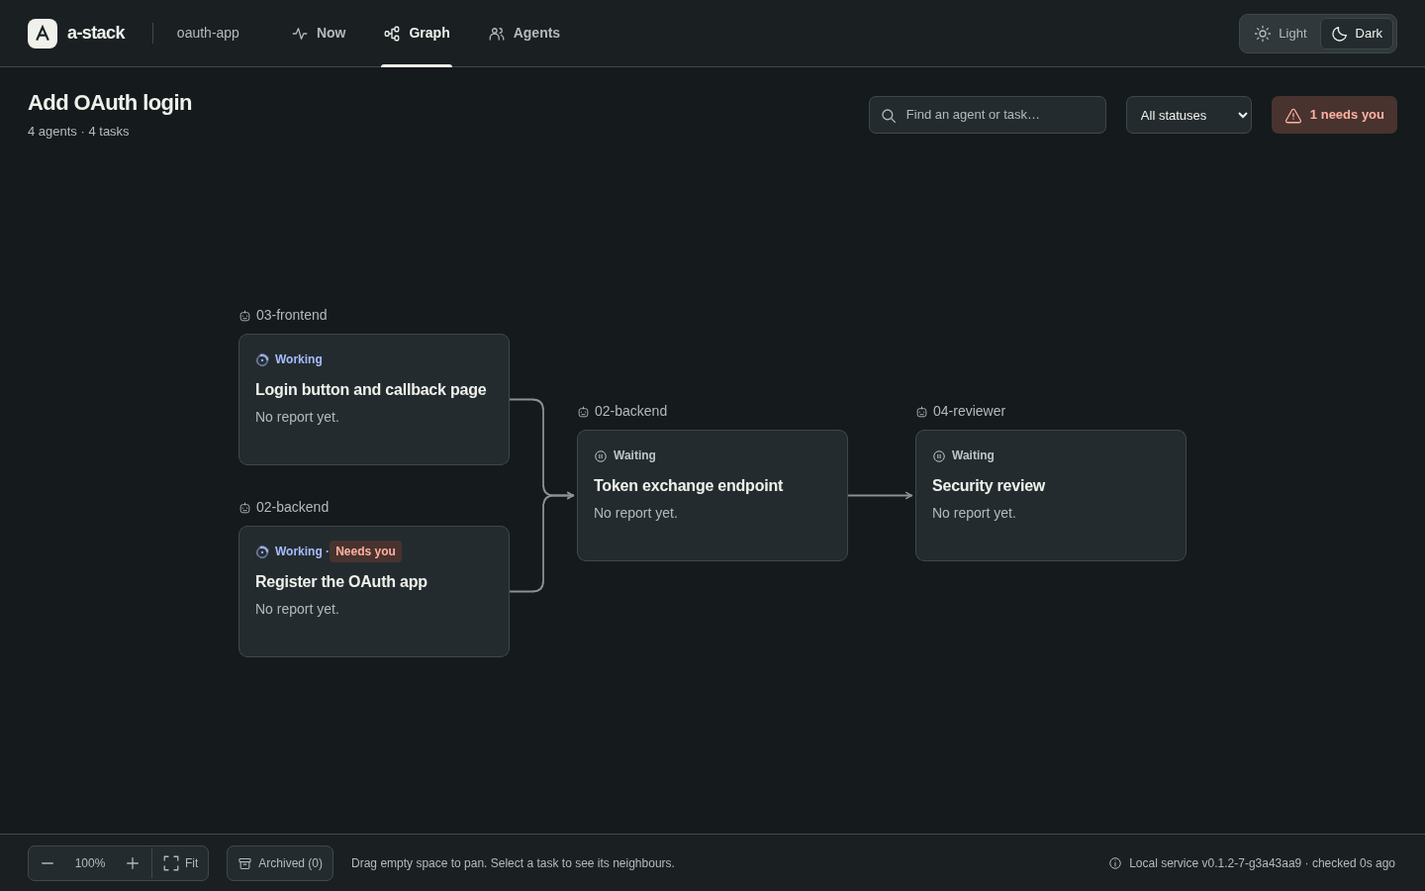
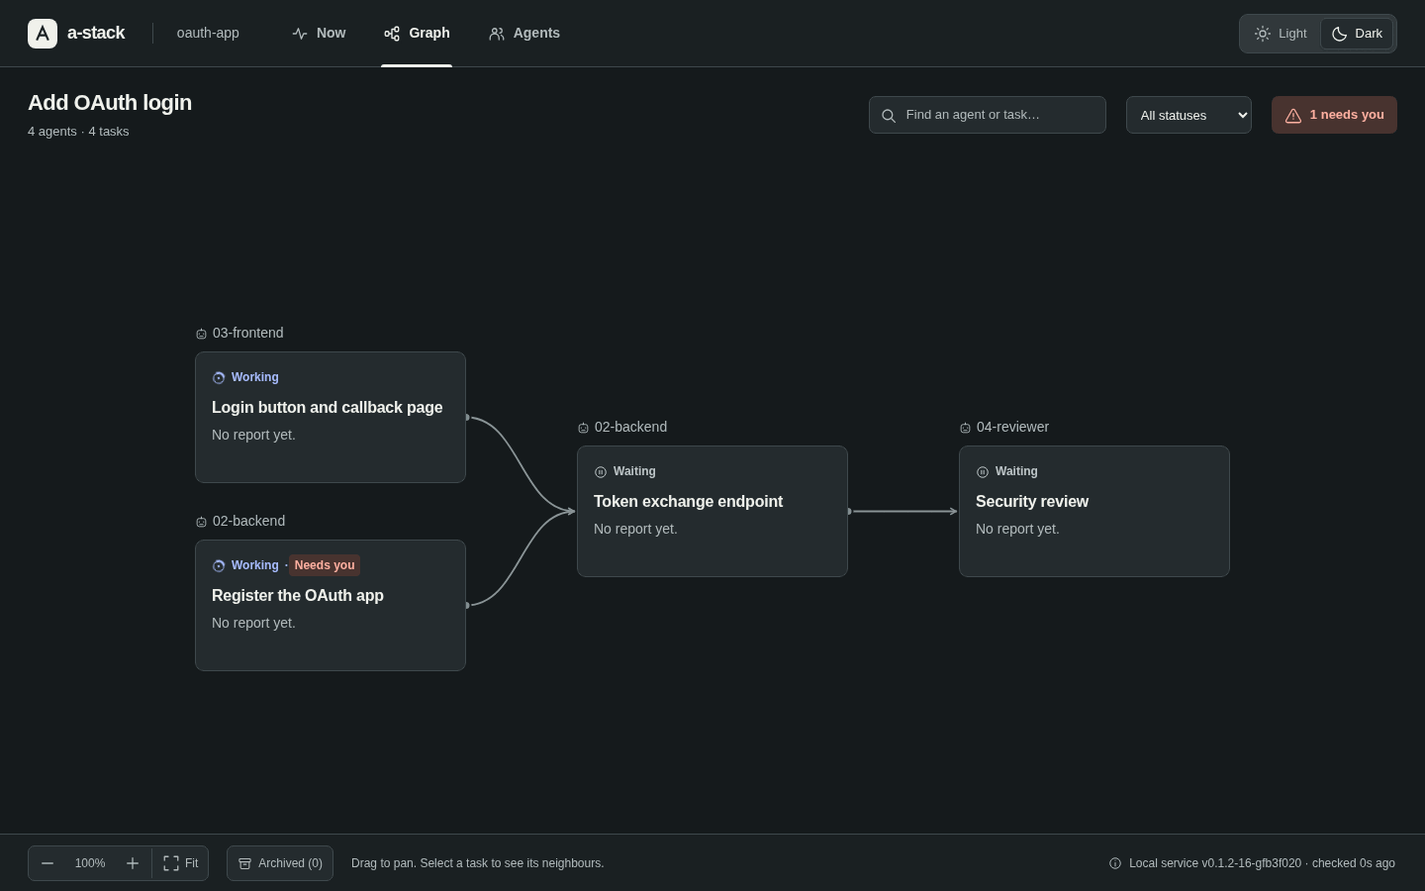
browser: curved lines and compact finished Tasks in the graph
The graph uses prototype D in plain JS. Each Task is centered on the
ports of its prerequisites and pushed down to keep the row gap, so a
chain runs level; a Task without prerequisites sits one column before
its first dependent. Lines are cubic curves from an output port, with
the small arrowhead. Finished and cancelled Tasks are compact one-line
blocks. Tasks without lines go below or to the right, whichever Fits
larger. A focused Task keeps its outline, its lines turn accent and
move on top, and the rest fades to .22 (lines) and .42 (cards).

Re-time the layout at 10, 100 and 1,000 Tasks, re-record the README
images, and amend ADR 0005 for the new line style.

diff --git a/internal/stack/browser/app.js b/internal/stack/browser/app.js
@@ -77,7 +77,7 @@ function status(n,t) {
   const key=t.progress+':'+t.needs_you;
   if (n.dataset.key===key) return;
   n.dataset.key=key;n.className='status '+t.progress;
-  n.replaceChildren(iconNode(t.progress==='cancelled'?'idle':t.progress), document.createTextNode(labels[t.progress] || t.progress));
+  n.replaceChildren(iconNode(t.progress==='cancelled'?'idle':t.progress), el('span','status-label',labels[t.progress] || t.progress));
   if (t.needs_you) { const a=el('span','status blocked','Needs you');n.append(' · ',a); }
 }
 function makeCard(t) {
@@ -96,9 +96,12 @@ function patchCard(c,t,graphCard=false) {
     }));
   }
   status(c.st,t);setText(c.title,t.title);setText(c.note,t.report_preview || 'No report yet.');
-  const caption=[t.reference_count ? `${t.reference_count} file reference${t.reference_count===1?'':'s'}`:'',t.cancelled_prerequisite_count?`${t.cancelled_prerequisite_count} cancelled prerequisite${t.cancelled_prerequisite_count===1?'':'s'}`:''].filter(Boolean).join(' · ');
+  const hidden=graphCard?hiddenPrerequisites.get(t.id) || 0:0;
+  const caption=[t.reference_count ? `${t.reference_count} file reference${t.reference_count===1?'':'s'}`:'',t.cancelled_prerequisite_count?`${t.cancelled_prerequisite_count} cancelled prerequisite${t.cancelled_prerequisite_count===1?'':'s'}`:'',hidden?`${hidden} archived prerequisite${hidden===1?'':'s'} hidden`:''].filter(Boolean).join(' · ');
+  // In the graph, done Tasks without an open question are one-line blocks; the details still show everything.
+  c.article.classList.toggle('compact',graphCard&&compactTask(t));
   setText(c.foot,caption);
-  c.button.classList.toggle('selected',state.selected===t.id);
+  c.button.classList.toggle('selected',state.selected===t.id||graphCard&&state.focus===t.id); // the focused Task keeps its outline
   c.button.setAttribute('aria-label',`${t.title}. ${labels[t.progress]}.${t.needs_you?' Needs you.':''} Assigned to ${names.join(' and ') || 'Unassigned'}. ${caption}`);
   const visible=matches(t);
   c.article.classList.toggle('archived',graphCard&&t.archived);
@@ -109,9 +112,11 @@ function patchCard(c,t,graphCard=false) {
   else c.article.hidden=!visible;
 }
 const edgesSVG = document.createElementNS(svgNS,'svg');edgesSVG.classList.add('connections');edgesSVG.setAttribute('aria-hidden','true');
-edgesSVG.innerHTML='<defs><marker id="arrow" viewBox="0 0 8 8" refX="7" refY="4" markerWidth="5" markerHeight="5" orient="auto"><path d="M1 1l5 3-5 3" fill="none" stroke="var(--edge)" stroke-width="1.5"/></marker></defs><g></g>';
+edgesSVG.innerHTML='<defs><marker id="arrow" viewBox="0 0 8 8" refX="7" refY="4" markerWidth="5" markerHeight="5" orient="auto"><path d="M1 1l5 3-5 3" fill="none" stroke="var(--edge)" stroke-width="1.5"/></marker><marker id="arrow-active" viewBox="0 0 8 8" refX="7" refY="4" markerWidth="4.5" markerHeight="4.5" orient="auto"><path d="M1 1l5 3-5 3" fill="none" stroke="var(--accent)" stroke-width="1.6"/></marker></defs><g></g>';
 graph.append(edgesSVG);
 const done = t => t.progress==='finished'||t.progress==='cancelled';
+const compactTask = t => done(t)&&!t.needs_you;
+let hiddenPrerequisites = new Map();
 // The focused Task and its direct prerequisites and dependents, from every dependency, also the lines the graph hides.
 function focusSet() {
   const s=new Set([state.focus]);
@@ -136,8 +141,11 @@ function reduceEdges(tasks,deps) {
   for(let u=0;u<n;u++)if(!inOrder.has(u))for(const [,e] of out[u])kept.push(e);
   return {kept,hidden};
 }
-// One column per dependency rank with the cards stacked and centered, and bracket lines through the gap between
-// columns, as in v0.1.0. Tasks without a drawn line sit in rows below the connected graph, so no line runs past them.
+// Left to right, one column per longest-path rank over the drawn lines (the transitive reduction), ordered by three
+// barycenter sweeps. Each Task is centered on the ports of its prerequisites and pushed down to keep the row gap, so a
+// straight chain runs level. Tasks without a drawn line go in rows below or columns to the right, whichever Fits larger.
+const cardWidth=274, columnGap=112, padX=28, padY=24, groupGap=96;
+let ports=new Map(); // the port height of each card, measured once per layout
 function layout() {
   const wasHidden=panel.hidden; if(wasHidden){panel.hidden=false;panel.style.visibility='hidden';}
   const tasks=graphTasks, byID=new Map(tasks.map(t=>[t.id,t])), rank=new Map(tasks.map(t=>[t.id,0]));
@@ -147,68 +155,76 @@ function layout() {
   for(let i=0;i<queue.length;i++) for(const id of next.get(queue[i])) {
     rank.set(id,Math.max(rank.get(id),rank.get(queue[i])+1));degree.set(id,degree.get(id)-1);if(!degree.get(id))queue.push(id);
   }
-  const layers=new Map();
-  for(const t of tasks) if(linked.has(t.id)) {const r=rank.get(t.id);if(!layers.has(r))layers.set(r,[]);layers.get(r).push(t.id);}
+  // A Task with no prerequisites sits one column before its earliest dependent, so its lines do not cross a column.
+  const needs=new Set();for(const ns of next.values())for(const id of ns)needs.add(id);
+  for(const t of tasks){const ns=next.get(t.id);if(ns.length&&!needs.has(t.id))rank.set(t.id,Math.min(...ns.map(id=>rank.get(id)))-1);}
+  const cols=[];
+  for(const t of tasks) if(linked.has(t.id)) (cols[rank.get(t.id)] ??= []).push(t.id);
   // Barycenter sweeps place each Task near the Tasks it connects to, so fewer lines cross; ties keep the stable Task order.
   const prev=new Map(tasks.map(t=>[t.id,[]]));for(const [id,ns] of next)for(const n of ns)prev.get(n).push(id);
-  const cols=[...layers.keys()].sort((a,b)=>a-b).map(r=>layers.get(r)), order=new Map(), place=l=>l.forEach((id,i)=>order.set(id,(i+.5)/l.length));cols.forEach(place);
+  const order=new Map(), place=l=>l.forEach((id,i)=>order.set(id,(i+.5)/l.length));cols.forEach(place);
   const sweep=(l,near)=>{const c=new Map(l.map(id=>{const n=near.get(id);return [id,n.length?n.reduce((s,x)=>s+order.get(x),0)/n.length:order.get(id)];}));l.sort((a,b)=>c.get(a)-c.get(b));place(l);};
   for(let i=1;i<cols.length;i++)sweep(cols[i],prev);for(let i=cols.length-2;i>=0;i--)sweep(cols[i],next);for(let i=1;i<cols.length;i++)sweep(cols[i],prev);
-  const sizes=new Map(tasks.map(t=>[t.id,cards.get(t.id).article.offsetHeight]));
-  const totals=[...layers.values()].map(ids=>ids.reduce((h,id)=>h+sizes.get(id)+32,0)-32), top=Math.max(0,...totals);
-  let w=layers.size?Math.max(...layers.keys())*342+274:0, y=24;
+  const sizes=new Map(), compact=new Set();ports=new Map();
+  for(const t of tasks){const c=cards.get(t.id);sizes.set(t.id,c.article.offsetHeight);ports.set(t.id,c.button.offsetTop+c.button.offsetHeight/2);if(c.article.classList.contains('compact'))compact.add(t.id);}
+  const gap=(a,b)=>compact.has(a)&&compact.has(b)?16:28, step=cardWidth+columnGap, pos=new Map();
+  let h=0;
+  cols.forEach((col,k)=>{
+    let last=null;
+    for(const id of col){
+      const ps=prev.get(id), floor=last===null?-Infinity:pos.get(last).y+sizes.get(last)+gap(last,id);
+      const want=k&&ps.length?ps.reduce((s,p)=>s+pos.get(p).y+ports.get(p),0)/ps.length-ports.get(id):last===null?0:floor;
+      pos.set(id,{x:k*step,y:Math.max(want,floor)});last=id;
+    }
+  });
+  // A column can start above 0 when its Tasks center on a taller column.
+  const top=Math.min(0,...[...pos.values()].map(p=>p.y));for(const p of pos.values()){p.y-=top;h=Math.max(h,p.y);}
+  for(const [id,p] of pos)h=Math.max(h,p.y+sizes.get(id));
+  const w=cols.length?cols.length*step-columnGap:0;
+  const loose=tasks.filter(t=>!linked.has(t.id)).map(t=>t.id), viewW=Math.max(1,(panel.clientWidth||1400)-2*padX), viewH=Math.max(1,(panel.clientHeight||670)-2*padY);
+  const below=()=>{const out=[],perRow=Math.max(1,Math.floor((Math.max(w,viewW)+columnGap)/step));let y=h?h+groupGap:0;
+    for(let i=0;i<loose.length;i+=perRow){const row=loose.slice(i,i+perRow);row.forEach((id,j)=>out.push([id,{x:j*step,y}]));y+=Math.max(...row.map(id=>sizes.get(id)))+28;}return out;};
+  const right=()=>{const out=[],limit=Math.max(h,viewH);let x=w?w+groupGap:0,y=0,last=null;
+    for(const id of loose){if(last!==null){y+=gap(last,id);if(y+sizes.get(id)>limit){x+=step;y=0;}}out.push([id,{x,y}]);y+=sizes.get(id);last=id;}return out;};
+  const box=list=>{let W=w,H=h;for(const [id,p] of list){W=Math.max(W,p.x+cardWidth);H=Math.max(H,p.y+sizes.get(id));}return [W,H];};
+  const fitScale=list=>{const [W,H]=box(list);return Math.min(viewW/W,viewH/H);};
+  const a=loose.length?below():[], b=loose.length?right():[], extra=fitScale(a)>=fitScale(b)?a:b;
+  for(const [id,p] of extra)pos.set(id,p);
+  const [W,H]=box(extra);
   positions.clear();
-  const put=(id,x,py)=>{positions.set(id,{x,y:py});const n=cards.get(id).article;n.style.left=x+'px';n.style.top=py+'px';};
-  for(const [r,ids] of layers) {
-    const total=ids.reduce((h,id)=>h+sizes.get(id)+32,0)-32;let py=24+(top-total)/2;
-    for(const id of ids){put(id,28+r*342,py);py+=sizes.get(id)+32;}
-  }
-  if(layers.size)y+=top+64;
-  const loose=tasks.filter(t=>!linked.has(t.id)).map(t=>t.id), perRow=Math.max(1,Math.floor((Math.max(w,(panel.clientWidth||1400)-88)+68)/342));
-  for(let i=0;i<loose.length;i+=perRow) {
-    const row=loose.slice(i,i+perRow);row.forEach((id,j)=>put(id,28+j*342,y));
-    y+=Math.max(...row.map(id=>sizes.get(id)))+32;w=Math.max(w,row.length*342-68);
-  }
-  width=w+56;height=y-32+24; // tight around the Task units, so Fit fits the cards
+  for(const [id,p] of pos){const x=padX+p.x,y=padY+p.y;positions.set(id,{x,y});const n=cards.get(id).article;n.style.left=x+'px';n.style.top=y+'px';}
+  width=W+2*padX;height=H+2*padY; // tight around the Task units, so Fit fits the cards
   graph.style.width=width+'px';graph.style.height=height+'px';applyZoom();drawEdges();
   if(wasHidden){panel.hidden=true;panel.style.visibility='';}
 }
-function roundedPath(points, radius = 11) {
-  let path = `M${points[0].join(',')}`;
-  for (let i = 1; i < points.length - 1; i++) {
-    const [x,y] = points[i], [px,py] = points[i-1], [nx,ny] = points[i+1];
-    const before = Math.hypot(x-px,y-py), after = Math.hypot(nx-x,ny-y);
-    if (!before || !after) continue;
-    const r = Math.min(radius,before/2,after/2);
-    const a = [x + (px-x)*r/before,y + (py-y)*r/before];
-    const b = [x + (nx-x)*r/after,y + (ny-y)*r/after];
-    path += `L${a.join(',')}Q${x},${y} ${b.join(',')}`;
-  }
-  return path + `L${points.at(-1).join(',')}`;
+// A line leaves the output port at the right edge of the card body and ends 2px before the next card, as a cubic curve
+// whose control points sit half the horizontal distance out. The focused Task's lines are drawn last, on top.
+function curve(e) {
+  const a=positions.get(e.prerequisite_id),b=positions.get(e.dependent_id);if(!a||!b)return null;
+  const x1=a.x+cardWidth,y1=a.y+(ports.get(e.prerequisite_id) ?? 0),x2=b.x-2,y2=b.y+(ports.get(e.dependent_id) ?? 0),o=Math.max(Math.abs(x2-x1)/2,24);
+  return `M${x1},${y1}C${x1+o},${y1} ${x2-o},${y2} ${x2},${y2}`;
 }
-
 function drawEdges() {
-  const group=edgesSVG.querySelector('g'), frag=document.createDocumentFragment();
-  const ends=e=>{
-    const a=cards.get(e.prerequisite_id),b=cards.get(e.dependent_id),ap=positions.get(e.prerequisite_id),bp=positions.get(e.dependent_id);if(!a||!b||!ap||!bp)return null;
-    return [ap.x+274,ap.y+a.button.offsetTop+a.button.offsetHeight/2,bp.x,bp.y+b.button.offsetTop+b.button.offsetHeight/2];
-  };
-  for(const e of graphEdges) {
-    const p=ends(e);if(!p)continue;const [x1,y1,x2,y2]=p,m=(x1+x2)/2;
-    frag.append(connection(e,roundedPath([[x1,y1],[m,y1],[m,y2],[x2-3,y2]])));
-  }
+  const group=edgesSVG.querySelector('g'), lines=document.createDocumentFragment(), front=document.createDocumentFragment(), outs=new Set();
+  for(const e of graphEdges){const d=curve(e);if(!d)continue;outs.add(e.prerequisite_id);const c=connection(e,d);(c.classList.contains('active')?front:lines).append(c);}
   // The focused Task also shows its direct lines that the reduction hides, dashed.
   if(state.focus)for(const e of hiddenEdges) {
     if(e.prerequisite_id!==state.focus&&e.dependent_id!==state.focus)continue;
-    const p=ends(e);if(!p)continue;const [x1,y1,x2,y2]=p,dx=Math.max(48,Math.abs(x2-x1)/2);
-    const c=connection(e,`M${x1},${y1}C${x1+dx},${y1} ${x2-3-dx},${y2} ${x2-3},${y2}`);c.classList.add('implied');frag.append(c);
+    const d=curve(e);if(!d)continue;const c=connection(e,d);c.classList.add('implied');front.append(c);
   }
-  group.replaceChildren(frag);
+  const portsFrag=document.createDocumentFragment();
+  for(const id of outs){
+    const p=positions.get(id),c=document.createElementNS(svgNS,'circle');c.setAttribute('cx',p.x+cardWidth);c.setAttribute('cy',p.y+(ports.get(id) ?? 0));c.setAttribute('r','4.5');c.classList.add('port');
+    if(id===state.focus||id===state.selected)c.classList.add('active');else if(focusIds&&!focusIds.has(id))c.classList.add('unfocused');
+    portsFrag.append(c);
+  }
+  group.replaceChildren(lines,front,portsFrag);
 }
 function connection(e,d) {
-  const p=document.createElementNS(svgNS,'path');p.setAttribute('d',d);p.setAttribute('marker-end','url(#arrow)');p.classList.add('connection');
+  const p=document.createElementNS(svgNS,'path');p.setAttribute('d',d);p.classList.add('connection');
   const near=e.prerequisite_id===state.focus||e.dependent_id===state.focus||e.prerequisite_id===state.selected||e.dependent_id===state.selected;
   if(near)p.classList.add('active');else if(state.focus)p.classList.add('unfocused');
+  p.setAttribute('marker-end',near?'url(#arrow-active)':'url(#arrow)');
   if(!matches(model.tasks.find(t=>t.id===e.prerequisite_id))&&!matches(model.tasks.find(t=>t.id===e.dependent_id)))p.classList.add('faded');
   return p;
 }
@@ -220,8 +236,11 @@ function patchGraph() {
   focusIds=state.focus?focusSet():null;
   const ids=new Set(graphTasks.map(t=>t.id));
   for(const [id,c] of cards)if(!ids.has(id)){c.article.remove();cards.delete(id);}
+  // Archived prerequisites that the graph hides, named in the caption of the Tasks that need them.
+  hiddenPrerequisites=new Map();
+  for(const e of model.dependencies)if(!ids.has(e.prerequisite_id)&&ids.has(e.dependent_id))hiddenPrerequisites.set(e.dependent_id,(hiddenPrerequisites.get(e.dependent_id) || 0)+1);
   for(const t of graphTasks) {let c=cards.get(t.id);if(!c){c=makeCard(t);cards.set(t.id,c);graph.append(c.article);}patchCard(c,t,true);}
-  const key=JSON.stringify([graphTasks.map(t=>[t.id,t.title,owners(t),t.needs_you,t.reference_count,t.cancelled_prerequisite_count]),model.dependencies.map(e=>[e.prerequisite_id,e.dependent_id])]);
+  const key=JSON.stringify([graphTasks.map(t=>[t.id,t.title,owners(t),t.progress,t.needs_you,t.reference_count,t.cancelled_prerequisite_count,hiddenPrerequisites.get(t.id) || 0]),model.dependencies.map(e=>[e.prerequisite_id,e.dependent_id])]);
   if(geometryKey!==key){
     geometryKey=key;
     measure('a-stack-layout',()=>{measure('a-stack-reduce',()=>{({kept:graphEdges,hidden:hiddenEdges}=reduceEdges(graphTasks,model.dependencies));});layout();});

diff --git a/internal/stack/browser/app.css b/internal/stack/browser/app.css
@@ -205,10 +205,22 @@ button:disabled { cursor: default; opacity: .6; }
 .now-card.archived { opacity: .7; }
 .detail-archive { margin: 10px 0 0; color: var(--muted); font-size: 13px; line-height: 19px; }
 .detail-archive[hidden] { display: none; }
-.graph-world > .task-unit.unfocused { opacity: .3; }
+.graph-world > .task-unit.unfocused { opacity: .42; }
 .graph-world > .task-unit.dimmed { opacity: .18; }
-.connection.unfocused { opacity: .3; }
+.connection.unfocused { opacity: .22; }
 .connection.implied { stroke-dasharray: 6 5; }
+/* Output ports sit on the right edge of a card body that has lines out. */
+.port { fill: var(--edge); stroke: var(--canvas); stroke-width: 2; }
+.port.active { fill: var(--accent); }
+.port.unfocused { opacity: .42; }
+/* Compact done Tasks: the Agent names, then one block with the status icon and a muted title of up to two lines. */
+.task-unit.compact .owners { margin-bottom: 4px; min-height: 18px; }
+.task-unit.compact .owner { font-size: 13px; }
+.task-unit.compact .task-card { flex-direction: row; align-items: flex-start; gap: 8px; padding: 8px 12px; border-radius: 8px; box-shadow: none; }
+.task-unit.compact .task-card.selected { box-shadow: 0 0 0 1px var(--accent); }
+.task-unit.compact .task-title { margin: 0; min-width: 0; font-size: 14px; font-weight: 560; line-height: 20px; letter-spacing: -.1px; color: var(--muted); display: -webkit-box; -webkit-line-clamp: 2; -webkit-box-orient: vertical; overflow: hidden; }
+.task-unit.compact .status { flex: none; margin-top: 1px; }
+.task-unit.compact .status-label, .task-unit.compact .task-note, .task-unit.compact .task-caption { display: none; }
 .archive-toggle { display: flex; align-items: center; gap: 6px; height: 36px; padding: 0 10px; border: 1px solid var(--line); border-radius: 7px; background: var(--surface); color: var(--muted); font-size: 12px; white-space: nowrap; font-variant-numeric: tabular-nums; }
 .archive-toggle svg { width: 15px; height: 15px; }
 .archive-toggle:hover { color: var(--ink); border-color: var(--strong-line); }

diff --git a/docs/browser.md b/docs/browser.md
@@ -96,12 +96,14 @@ A poll moves cards between columns in place. The selection, the focused card and
 
 - Graph arrows point from a prerequisite to its dependent Task. The details also name both directions.
 - Full names wrap above the cards.
-- Each dependency rank is one column. The cards of a column are stacked and centered, and each Task sits near the Tasks it connects to. Lines run from the right side of a card through the gap between the columns to the left side of the next card.
-- Tasks without a line sit in rows below the connected graph, so no line runs past them.
+- The graph runs left to right with one column per dependency rank. A Task without prerequisites sits one column before its first dependent, so its lines do not cross a column. Three ordering passes put each Task near the Tasks it connects to. Each Task is centered on the lines from its prerequisites, so a chain runs level, and moves down only to keep 28px between cards.
+- A line is a curve from the output port of a card to the left side of the next card. It ends in a small arrowhead. Only a Task with lines out has an output port, a dot on the right edge of the card.
+- Finished and cancelled Tasks are compact blocks: the Agent names, then one line with the status icon and the muted title, two lines at most. They have no status label and no report preview; the details show both. Compact blocks keep 16px between them. A Task that needs you keeps its full card.
+- Tasks without a line sit in rows below or in columns to the right of the connected graph, whichever lets Fit show them larger.
 - The graph hides a dependency line when another path already connects the two Tasks; the details panel lists every dependency.
-- The graph hides [archived Tasks](tasks.md#archived-tasks) by default. Finished and cancelled Tasks that are not archived stay, so the finished work that a live Task depends on and the last Task of each chain are visible. Lines to or from a hidden archived Task are not drawn, so a Task whose prerequisites are all archived sits in the first column. The Archived (N) toggle in the graph toolbar shows them again, dimmed. The view remembers the toggle in local storage. The service decides which Tasks are archived; the view cannot archive anything.
-- Select a Task, with a click or with Enter, to focus it. The Task, its direct prerequisites, its direct dependents and their lines stay bright, and everything else is dimmed to 30%. Lines that the graph hides because another path connects the Tasks appear dashed while one of their Tasks has the focus. The focus stays after the details close. Escape, or a click on empty space, clears it.
-- The layout runs again when Tasks or dependencies change, when the Archived toggle changes, or when a card changes size: a new title, other assigned Agents, Needs you, file references or cancelled prerequisites. It uses the panel size at that moment. Resizing the window alone does not move cards, and neither does a poll without changes.
+- The graph hides [archived Tasks](tasks.md#archived-tasks) by default. Finished and cancelled Tasks that are not archived stay, so the finished work that a live Task depends on and the last Task of each chain are visible. Lines to or from a hidden archived Task are not drawn, so a Task whose prerequisites are all archived sits in the first column. A full card says how many of its prerequisites are archived and hidden. The Archived (N) toggle in the graph toolbar shows them again, dimmed. The view remembers the toggle in local storage. The service decides which Tasks are archived; the view cannot archive anything.
+- Select a Task, with a click or with Enter, to focus it. Its lines turn the accent color, get thicker and move on top of the others. Its direct prerequisites and dependents stay bright. Other cards fade to 42% and other lines to 22%. Lines that the graph hides because another path connects the Tasks appear dashed while one of their Tasks has the focus. The focus and the accent outline of the Task stay after the details close. Escape, or a click on empty space, clears it.
+- The layout runs again when Tasks or dependencies change, when the Archived toggle changes, or when a card changes size: a new title, a new status, other assigned Agents, Needs you, file references, cancelled prerequisites or hidden archived prerequisites. It uses the panel size at that moment. Resizing the window alone does not move cards, and neither does a poll without changes.
 
 ### Task mail
 
@@ -168,6 +170,16 @@ The layout time includes the rank calculation, card measurement, positions and S
 ¹ The table was measured with the first layout of v0.1.0. A later check on the same machine and browser, with a plain Root → 999 Tasks fixture at 1440×900 and five fresh loads each, measured layout at 93.5–105.4 ms (p50 98.8 ms) before that change and 98.3–103.2 ms (p50 100.8 ms) after it. A review of an earlier version of the change measured 158–169 ms before and 179–221 ms after, on its own fixture.
 
 The layout went back to the v0.1.0 columns on 2026-10-25, with the transitive reduction, ordering and archived Tasks added. On the same machine and browser at 1913×830, a fixture of 1,000 open Tasks in 10 ranks of 100 with 2,150 dependencies (800 of them redundant) measured five fresh loads at 83.4–129.5 ms for the whole layout (p50 91.1 ms). The reduction alone took 3.7–7.2 ms (p50 5.0 ms) and drew 1,350 lines. The canvas was 3,408 × 19,448 px.
+
+Curved lines and compact blocks came on 2026-10-25. On the same machine and browser at 1913×830, with fixtures of 10 Tasks in 5 ranks, 100 Tasks in 10 ranks and 1,000 Tasks in 10 ranks, all open and with redundant dependencies, five fresh loads each measured the whole layout at:
+
+| Tasks | Layout p50 / max | Lines drawn | Canvas |
+| --- | --- | --- | --- |
+| 10 | 2.0 / 13.7 ms ² | 12 | 1,874 × 400 px |
+| 100 | 9.0 / 9.5 ms | 135 | 3,804 × 2,775 px |
+| 1,000 | 82.7 / 87.8 ms | 1,350 | 3,804 × 20,730 px |
+
+² The first load after the browser started. The other four took 1.9–2.0 ms.
 
 With 1,000 Tasks, one wide rank makes one very tall column: in the first v0.1.0 measurement, a canvas of 192,929 px. Archived Tasks are hidden by default, so the graph of a long Session stays close to the size of its open work and the finished Tasks next to it. The view shows every open Task. There is no virtualization, minimap or automatic Fit. At this size, Fit gives an overview with labels that you cannot read. Use scrolling, search, filters and the Agents tab to find single Tasks. The layout and ownership scans are simple on purpose, and they can become slow above these sizes. Add indexed client maps or virtualization only when larger measured workloads need them.
 

diff --git a/CHANGELOG.md b/CHANGELOG.md
@@ -19,7 +19,8 @@ The release workflow uses the section of a version as the notes of its GitHub re
 
 ### Changed
 
-- The graph is back to the v0.1.0 look: one column per rank and bracket lines between columns. Tasks without lines sit in rows below. The graph draws a dependency line only when no other path connects the two Tasks; the details still list every dependency.
+- The graph runs left to right with one column per rank, and each Task is centered on its prerequisites, so a chain runs level. Lines are curves from an output port on the right edge of a card. Finished and cancelled Tasks are compact one-line blocks with the Agent names above. Tasks without lines sit below or to the right, whichever Fits larger. The graph draws a dependency line only when no other path connects the two Tasks; the details still list every dependency.
+- A selected Task's lines turn the accent color and move on top. Other lines fade to 22% and other cards to 42%.
 - Finished and cancelled Tasks show in the graph again, unless they are archived. The graph hides archived Tasks by default and shows them dimmed with the Archived (N) toggle. On the Now board, archived Tasks leave Recently finished and appear under "Show archive".
 - The database schema is version 6. It adds `archived_at` and `ended_at` to Tasks and lets the Task history name the Operator. The upgrade runs once, in one transaction.
 - The browser view credential can read the Task mail of its own Session with `POST /v1/mail/read`. It still cannot send or check mail. The Operator credential still has no mail access.
